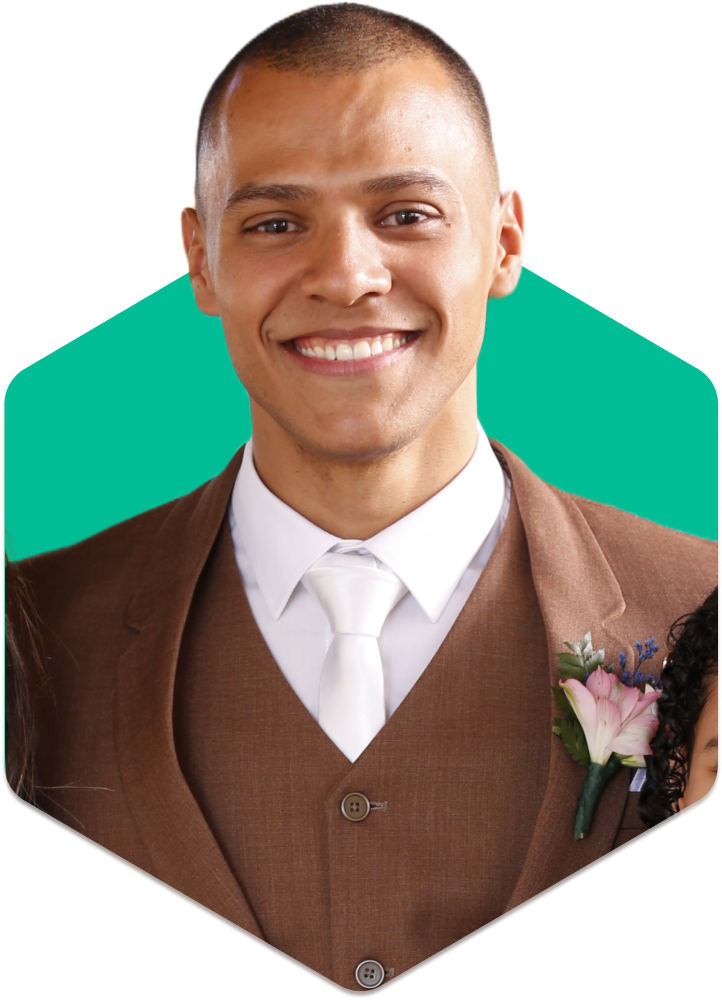
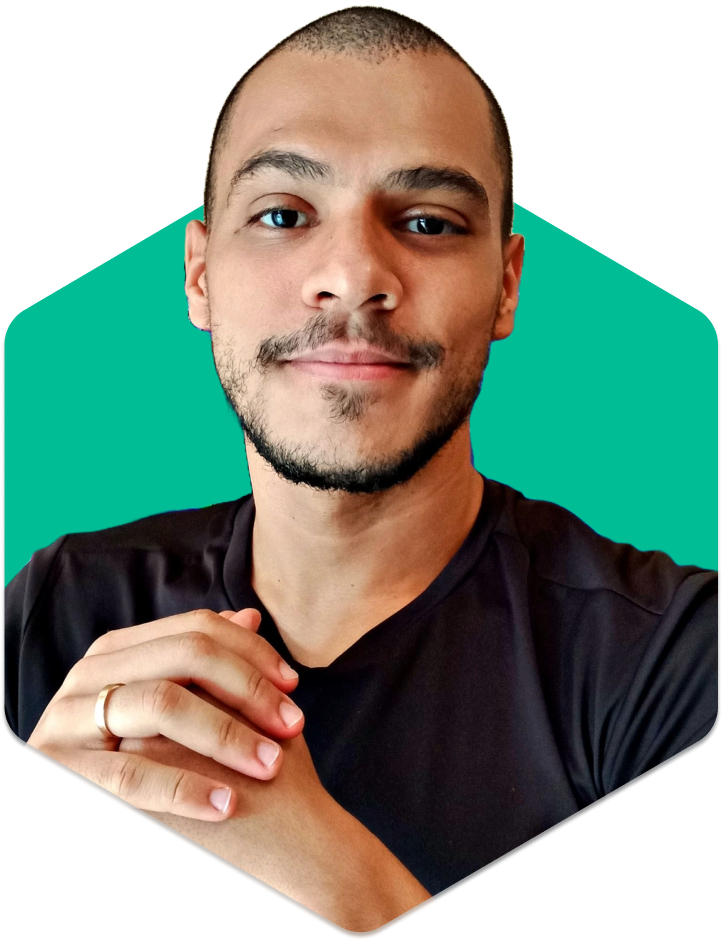
updated hero image and title

diff --git a/src/components/portfolio/hero/heroDescription/index.tsx b/src/components/portfolio/hero/heroDescription/index.tsx
@@ -14,13 +14,13 @@ export const HeroDescription = () => {
           Felipe Santiago
         </h1>
         <h3 className="font-normal text-base text-textColor transition-colors duration-150 md:text-medium">
-          Desenvolvedor <span className="text-primary font-bold">Frontend</span>
+          Desenvolvedor <span className="text-primary font-bold">Fullstack</span>
         </h3>
       </div>
 
       <p className="font-normal text-small opacity-70 text-textColor mb-5 transition-colors duration-150 md:text-base max-w-[70rem]">
-        Sou apaixonado por criar interfaces amigáveis com React.js e TypeScript.
-        Veja meus projetos aqui e entre em contato comigo nas minhas redes
+        Sou apaixonado por criar interfaces amigáveis com React.js e TypeScript, integrando com banco de dados via Node JS.
+        Veja meus projetos aqui e entre em contato comigo pelas minhas redes
         sociais!
       </p>
 

diff --git a/src/components/portfolio/aboutMe/aboutMeDescription/index.tsx b/src/components/portfolio/aboutMe/aboutMeDescription/index.tsx
@@ -3,7 +3,7 @@ import { aboutMeDescription } from "@json/data.json";
 
 export const AboutMeDescription = () => {
   return (
-    <div className="flex flex-wrap justify-center">
+    <div className="flex flex-wrap justify-center gap-x-10">
       {aboutMeDescription.map((item) => (
         <p key={item.id} className={paragraph({ sections: "aboutMe" })}>
           {item.text}
